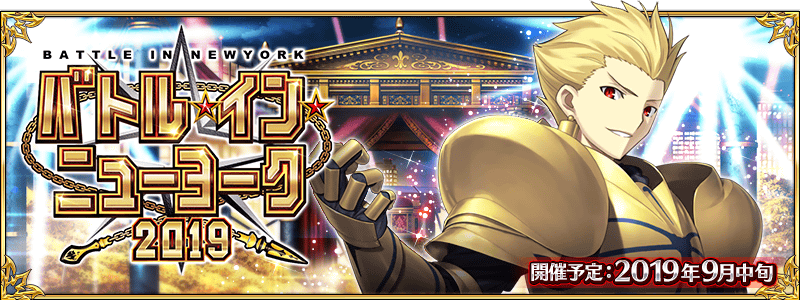
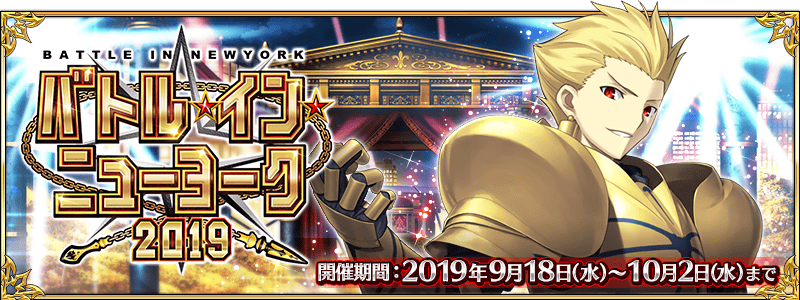
binny2019_eifpg

diff --git a/common/js/sidebar.js b/common/js/sidebar.js
@@ -1,7 +1,7 @@
 function loadsidebar()
 {
 	if(!(location.pathname=='/fgo-vz/'||location.pathname.indexOf('index')!=-1)) {$('div.container').prepend('<script async src="//pagead2.googlesyndication.com/pagead/js/adsbygoogle.js"><\/script><div style="margin:0px auto;width:728px;height:90px;background:url(\'common/images/info_banner.png\');"><ins class="adsbygoogle"     style="display:inline-block;width:728px;height:90px"     data-ad-client="ca-pub-3881979894805188"     data-ad-slot="5322095555"></ins><script>(adsbygoogle = window.adsbygoogle || []).push({});<\/script></div>');slideOpen();}
-	$('#div_right_sidebar').append('<a href="./"><div class="sidebarl" style="background-image:url(common/images/sidebar01.png);">首頁</div></a><a href="https://www.facebook.com/472978160149131/" target="_blank"><div class="sidebarl" style="background-image:url(common/images/sidebar17.png);">粉絲專頁</div></a><a href="servant.html"><div class="sidebarl" style="background-image:url(common/images/sidebar05.png);">從者</div></a><a href="skill.html"><div class="sidebar" style="background-image:url(common/images/sidebar00.png);">技能</div></a><a href="noble_phantasm.html"><div class="sidebar" style="background-image:url(common/images/sidebar00.png);">寶具</div></a><a href="lv100.html"><div class="sidebar" style="background-image:url(common/images/sidebar00.png);">HP與ATK</div></a><a href="hidden.html"><div class="sidebar" style="background-image:url(common/images/sidebar00.png);">隱藏數値</div></a><a href="craft_essence.html"><div class="sidebarl" style="background-image:url(common/images/sidebar09.png);">概念禮裝</div></a><a href="command_code.html"><div class="sidebarl" style="background-image:url(common/images/sidebar18.png);">指令紋章</div></a><a href="item_drop.html"><div class="sidebarl" style="background-image:url(common/images/sidebar15.png);">素材道具</div></a><a href="quest.html"><div class="sidebarl" style="background-image:url(common/images/sidebar04.png);">關卡</div></a><a href="master_equip.html"><div class="sidebarl" style="background-image:url(common/images/sidebar03.png);">御主相關</div></a><a href="donate.html"><div class="sidebarl" style="background-image:url(common/images/sidebar11.png);"><span class="red">贊助支持</span></div></a><div class="sidebarl" id="survey_bannner" style="background-image:url(common/images/sidebar08.png);">意見回饋</div><a href="event_history.html"><div class="sidebarl" style="background-image:url(common/images/sidebar10.png);">過去活動</div></a><a href="event_binny2019_cp.html" title="『「Battle in New York 2019」舉辦前夕宣傳活動』"><div class="sidebar_event" style="background-image:url(common/images/2019/binny2019_cp_ielwm/top_banner.png);"></div></a><a href="gacha_binny2019_cp_pu.html" title="「職階區別Pick Up召喚(每日交替)」"><div class="sidebar_event" style="background-image:url(common/images/2019/binny2019_cp_pu_smqbd/top_banner.png);"></div></a><a href="event_intermission10.html" title="「幕間物語宣傳活動 第10彈」"><div class="sidebar_event" style="background-image:url(common/images/2019/intermission10_ekkvx/top_banner.png);"></div></a><a href="gacha_intermission10_pu.html" title="「幕間物語宣傳活動第10彈Pick Up召喚(每日交替)」"><div class="sidebar_event" style="background-image:url(common/images/2019/intermission10_pu_wkcsv/top_banner.png);"></div></a><a href="event_salem-comic_cp.html" title="『「Fate/Grand Order -Epic of Remnant-」亞種特異點Ⅳ漫畫發售記念宣傳活動』"><div class="sidebar_event" style="background-image:url(common/images/2019/salem-comic_cp_kdurv/top_banner.png);"></div></a><a href="event_memories2_cp.html" title="『「Fate/Grand Order Memories Ⅱ 概念禮裝畫集 1.5部」發售記念宣傳活動』"><div class="sidebar_event" style="background-image:url(common/images/2019/memories2_cp_orjds/top_banner.png);"></div></a><div style="height:35px;"></div>');
+	$('#div_right_sidebar').append('<a href="./"><div class="sidebarl" style="background-image:url(common/images/sidebar01.png);">首頁</div></a><a href="https://www.facebook.com/472978160149131/" target="_blank"><div class="sidebarl" style="background-image:url(common/images/sidebar17.png);">粉絲專頁</div></a><a href="servant.html"><div class="sidebarl" style="background-image:url(common/images/sidebar05.png);">從者</div></a><a href="skill.html"><div class="sidebar" style="background-image:url(common/images/sidebar00.png);">技能</div></a><a href="noble_phantasm.html"><div class="sidebar" style="background-image:url(common/images/sidebar00.png);">寶具</div></a><a href="lv100.html"><div class="sidebar" style="background-image:url(common/images/sidebar00.png);">HP與ATK</div></a><a href="hidden.html"><div class="sidebar" style="background-image:url(common/images/sidebar00.png);">隱藏數値</div></a><a href="craft_essence.html"><div class="sidebarl" style="background-image:url(common/images/sidebar09.png);">概念禮裝</div></a><a href="command_code.html"><div class="sidebarl" style="background-image:url(common/images/sidebar18.png);">指令紋章</div></a><a href="item_drop.html"><div class="sidebarl" style="background-image:url(common/images/sidebar15.png);">素材道具</div></a><a href="quest.html"><div class="sidebarl" style="background-image:url(common/images/sidebar04.png);">關卡</div></a><a href="master_equip.html"><div class="sidebarl" style="background-image:url(common/images/sidebar03.png);">御主相關</div></a><a href="donate.html"><div class="sidebarl" style="background-image:url(common/images/sidebar11.png);"><span class="red">贊助支持</span></div></a><div class="sidebarl" id="survey_bannner" style="background-image:url(common/images/sidebar08.png);">意見回饋</div><a href="event_history.html"><div class="sidebarl" style="background-image:url(common/images/sidebar10.png);">過去活動</div></a><a href="event_binny2019_cp.html" title="『「Battle in New York 2019」舉辦前夕宣傳活動』"><div class="sidebar_event" style="background-image:url(common/images/2019/binny2019_cp_ielwm/top_banner.png);"></div></a><a href="gacha_binny2019_cp_pu.html" title="「職階區別Pick Up召喚(每日交替)」"><div class="sidebar_event" style="background-image:url(common/images/2019/binny2019_cp_pu_smqbd/top_banner.png);"></div></a><a href="event_intermission10.html" title="「幕間物語宣傳活動 第10彈」"><div class="sidebar_event" style="background-image:url(common/images/2019/intermission10_ekkvx/top_banner.png);"></div></a><a href="event_memories2_cp.html" title="『「Fate/Grand Order Memories Ⅱ 概念禮裝畫集 1.5部」發售記念宣傳活動』"><div class="sidebar_event" style="background-image:url(common/images/2019/memories2_cp_orjds/top_banner.png);"></div></a><div style="height:35px;"></div>');
 	$('#survey_bannner').on("click", function() {
 		if(!confirm ('本站與FGO官方無任何關係，不受理任何投訴\n若非必要請盡量使用上面的粉絲專頁\n點擊[取消]前往') ){
 			var newwin = window.open();

diff --git a/gacha_4th_luckybag.html b/gacha_4th_luckybag.html
@@ -282,7 +282,7 @@ p.btn a:hover {
 <!-- -->
 <p><span class="diamond">◆</span><span class="strong">有關概念禮裝的注意</span><span class="diamond">◆</span><br/>
 <span class="indent">
-	※期間限定概念禮裝的「★5(SSR)ウォーク・イン・ザ・パーク」「★4(SR)モーニング・グローリー」「★3(R)サンデー・ディナー」も登場します。	
+	※期間限定概念禮裝的「★5(SSR)ウォーク・イン・ザ・パーク」「★4(SR)モーニング・グローリー」「★3(R)サンデー・ディナー」也會登場。	
 	</span>
 <span class="indent">
 	※請注意做為抽出對象期間限定概念禮裝只限「<span class="notice">★5(SSR)ウォーク・イン・ザ・パーク</span>」「<span class="notice">★4(SR)モーニング・グローリー</span>」「<span class="notice">★3(R)サンデー・ディナー</span>」，其他的期間限定概念禮裝為抽出對象外。	

diff --git a/index.html b/index.html
@@ -173,7 +173,7 @@ $(function(){
 }
 </style>
 
-<h1 class="headline3"><dl><dt class="date">9/9</dt><span class="new">&nbsp;</span><dd>【預告】期間限定活動「Battle in New York 2019」預定9月中旬舉辦！</dd></dl></h1>
+<h1 class="headline3"><dl><dt class="date">9/13</dt><span class="new">&nbsp;</span><dd>【預告】期間限定活動「Battle in New York 2019」預定9月18日舉辦！</dd></dl></h1>
 <p>
 <a href="event_binny2019.html"><img src="common/images/2019/binny2019_eifpg/top_banner.png" width=400 /></a>
 <a href="event_binny2019_cp.html"><img src="common/images/2019/binny2019_cp_ielwm/top_banner.png" width=400 /></a>
